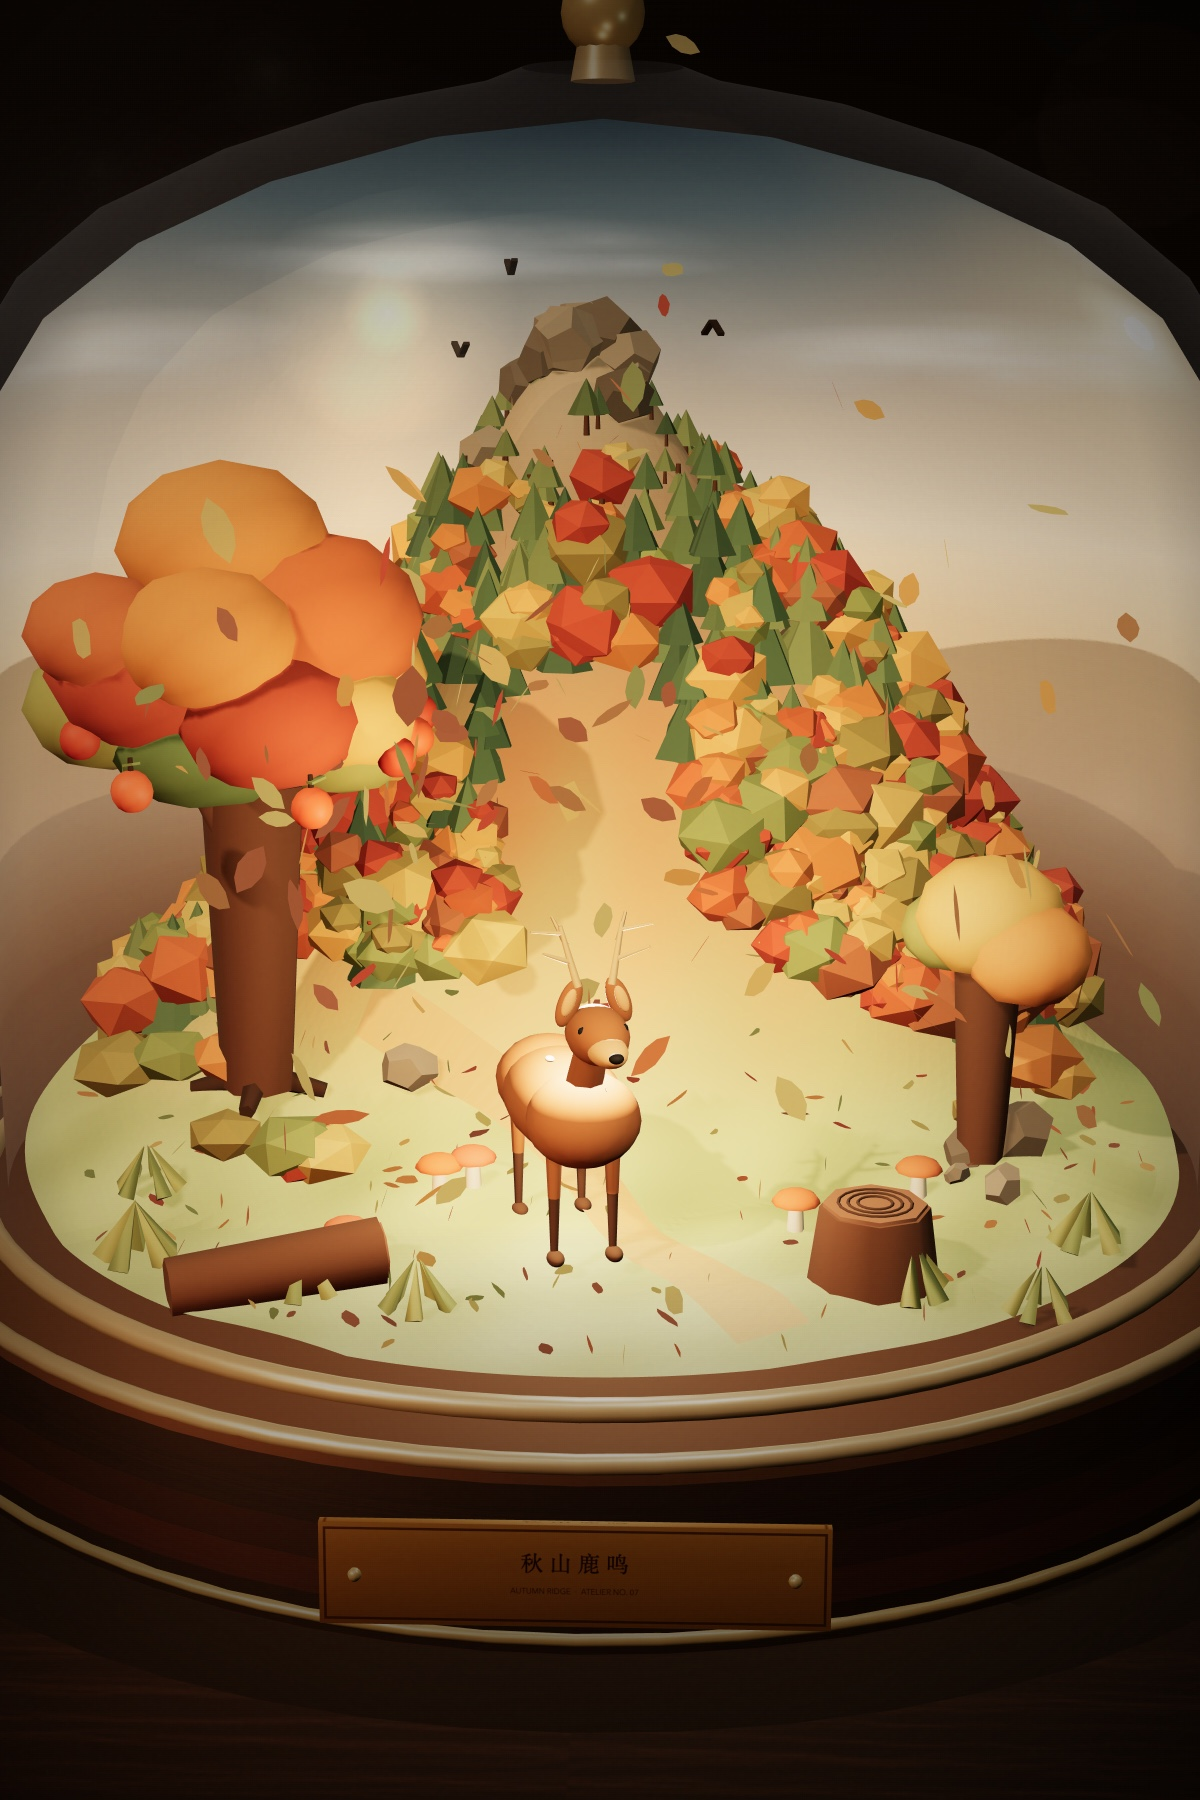
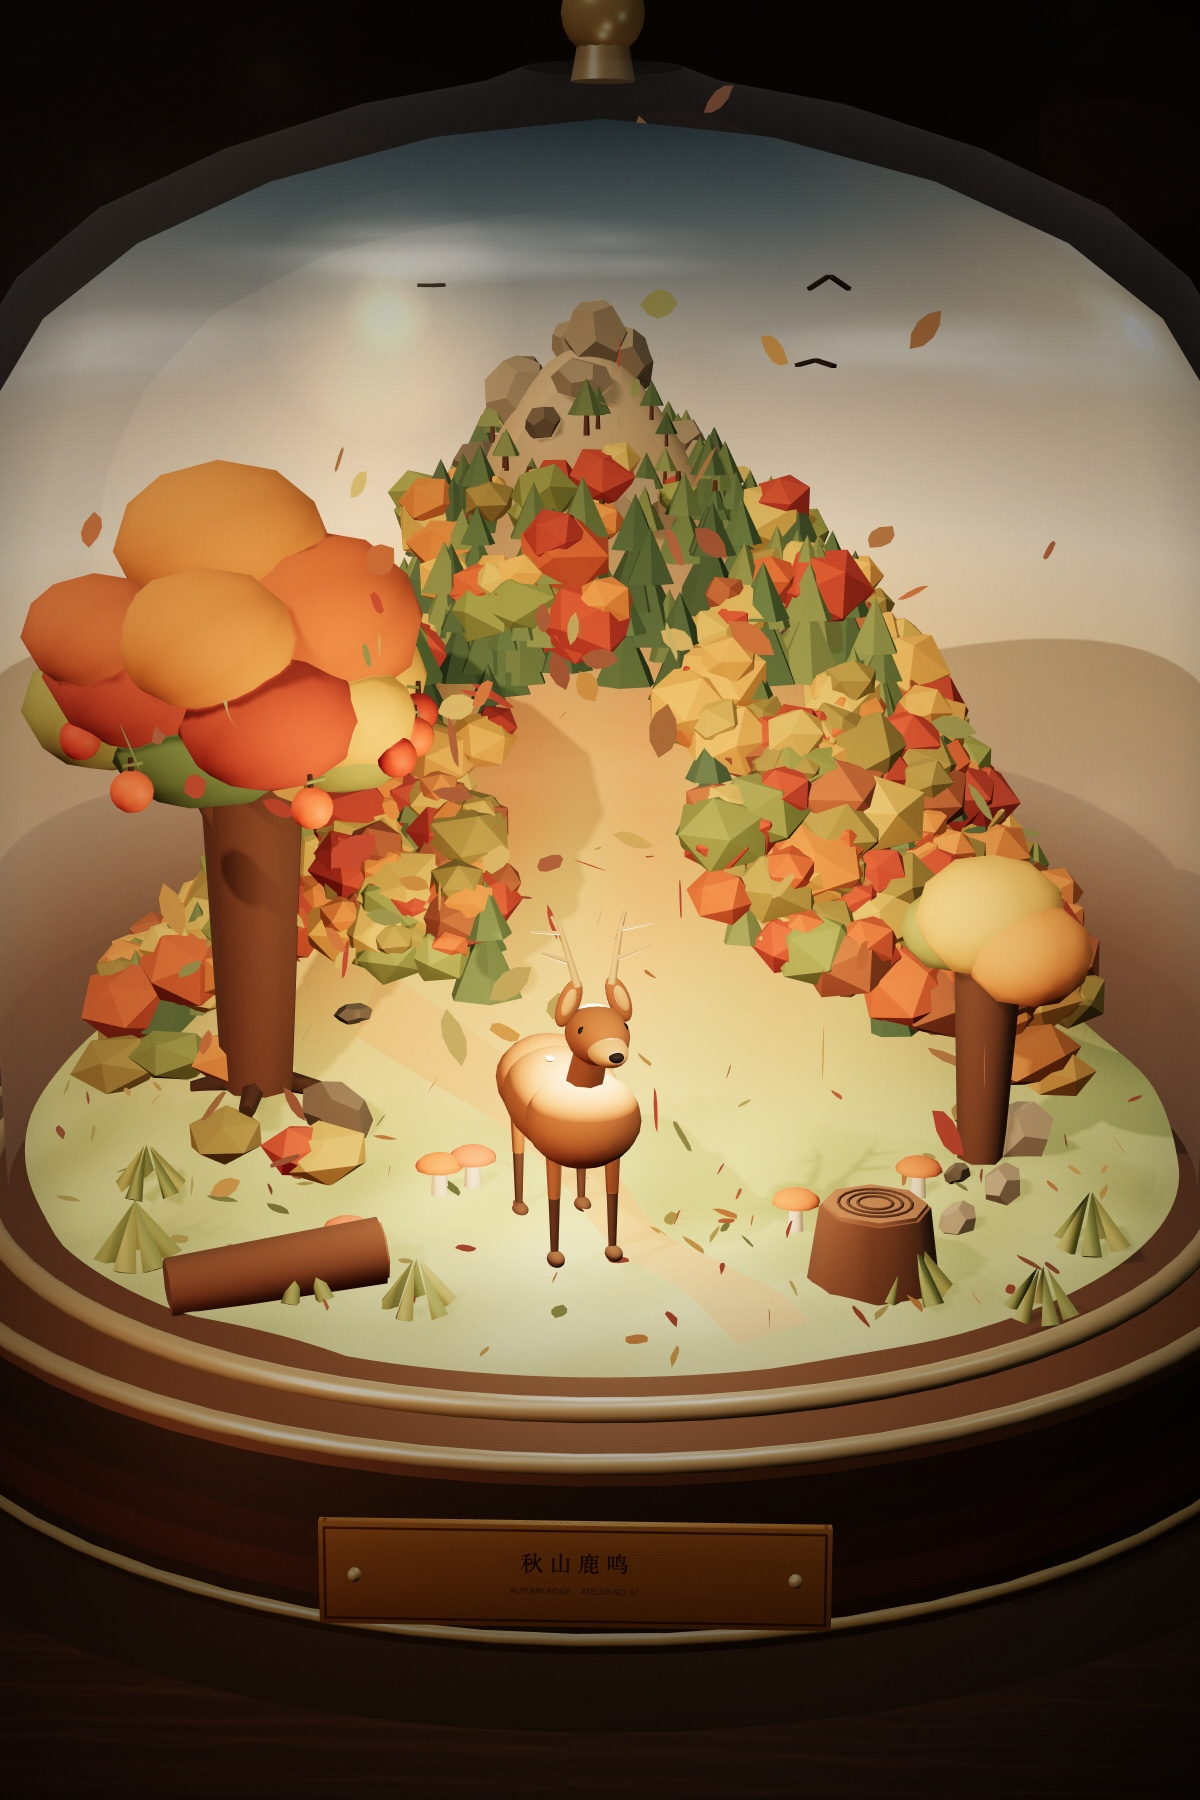
feat: 秋林动物加入觅果互动，重调尾巴并减少落叶
- 狐狸与松鼠尾巴改为收束的双色蓬尾，缩短体量、调整根部朝向，避免比例失衡
- 动物停留时会发现附近的落地果实，走过去低头啃食；果实短暂消失后重新结回树上，访客状态同步显示“觅果/吃果”
- 空中落叶 150→105、地面落叶 310→217，整体减少约 30%
- 更新互动提示与海报

diff --git a/autumn-forest/index.html b/autumn-forest/index.html
@@ -216,7 +216,7 @@
 </aside>
 
 <div class="side-mark">NO. 07 / AUTUMN RIDGE / 2026</div>
-<p class="hint-note" id="hintNote">风一过，整座山的叶子都在轻轻响。</p>
+<p class="hint-note" id="hintNote">风过叶响，落下的果子，来客会来尝。</p>
 
 <div class="hintbar">
   <span><b>拖拽</b>环绕</span><i></i>
@@ -583,9 +583,74 @@ function cone(parent, radius, height, mat, x = 0, y = 0, z = 0, rx = 0, ry = 0, 
   parent.add(m);
   return m;
 }
-function curveTube(parent, points, radius, mat, segments = 18, radial = 8){
+const SIDE_AXIS = new THREE.Vector3(1, 0, 0);
+function furTail(parent, points, radii, baseColor, tipColor, segments = 26, radial = 11){
   const curve = new THREE.CatmullRomCurve3(points);
-  const m = new THREE.Mesh(new THREE.TubeGeometry(curve, segments, radius, radial, false), mat);
+  const pos = [], cols = [], idx = [];
+  const cA = new THREE.Color(baseColor), cB = new THREE.Color(tipColor), c = new THREE.Color();
+  const tvec = new THREE.Vector3(), n = new THREE.Vector3(), b = new THREE.Vector3();
+  let lastN = null, lastB = null;
+  const pushRing = (p, nn, bb, r, color) => {
+    for (let j = 0; j < radial; j++){
+      const a = j / radial * TAU, ca = Math.cos(a), sa = Math.sin(a);
+      pos.push(
+        p.x + (nn.x * ca + bb.x * sa) * r,
+        p.y + (nn.y * ca + bb.y * sa) * r,
+        p.z + (nn.z * ca + bb.z * sa) * r
+      );
+      cols.push(color.r, color.g, color.b);
+    }
+  };
+  for (let i = 0; i <= segments; i++){
+    const t = i / segments;
+    const p = curve.getPoint(t);
+    curve.getTangent(t, tvec).normalize();
+    n.copy(SIDE_AXIS).addScaledVector(tvec, -tvec.dot(SIDE_AXIS));
+    if (n.lengthSq() < .0001) n.set(0, 0, 1);
+    n.normalize();
+    b.crossVectors(tvec, n).normalize();
+    const f = t * (radii.length - 1);
+    const ri = Math.min(radii.length - 2, Math.floor(f));
+    const r = radii[ri] * (1 - (f - ri)) + radii[ri + 1] * (f - ri);
+    c.copy(cA).lerp(cB, smooth(.62, .84, t));
+    pushRing(p, n, b, r, c);
+    lastN = n.clone();
+    lastB = b.clone();
+  }
+  // rounded, integrated cream tip cap
+  const tipP = curve.getPoint(1);
+  const tipT = curve.getTangent(1).normalize();
+  const tipR = radii[radii.length - 1];
+  const capSteps = 3;
+  for (let k = 1; k <= capSteps; k++){
+    const phi = k / (capSteps + 1) * Math.PI / 2;
+    const p = tipP.clone().addScaledVector(tipT, tipR * Math.sin(phi));
+    pushRing(p, lastN, lastB, tipR * Math.cos(phi), cB);
+  }
+  const tipCenter = pos.length / 3;
+  pos.push(tipP.x + tipT.x * tipR, tipP.y + tipT.y * tipR, tipP.z + tipT.z * tipR);
+  cols.push(cB.r, cB.g, cB.b);
+  const ringCount = segments + 1 + capSteps;
+  for (let i = 0; i < ringCount - 1; i++){
+    for (let j = 0; j < radial; j++){
+      const a = i * radial + j;
+      const b1 = (i + 1) * radial + j;
+      const c1 = i * radial + (j + 1) % radial;
+      const d = (i + 1) * radial + (j + 1) % radial;
+      idx.push(a, b1, c1, b1, d, c1);
+    }
+  }
+  const lastStart = (ringCount - 1) * radial;
+  for (let j = 0; j < radial; j++){
+    idx.push(lastStart + j, tipCenter, lastStart + (j + 1) % radial);
+  }
+  const geo = new THREE.BufferGeometry();
+  geo.setAttribute('position', new THREE.Float32BufferAttribute(pos, 3));
+  geo.setAttribute('color', new THREE.Float32BufferAttribute(cols, 3));
+  geo.setIndex(idx);
+  geo.computeVertexNormals();
+  const mat = new THREE.MeshStandardMaterial({ vertexColors: true, roughness: .9 });
+  const m = new THREE.Mesh(geo, mat);
   m.castShadow = true;
   m.receiveShadow = true;
   parent.add(m);
@@ -1146,7 +1211,7 @@ for (let i = 0; i < fruitHome.length; i++){
   stem.position.y = .075;
   g.add(stem);
   const leaf = block(g, .055, .008, .028, M.fruitLeaf, .018, .085, 0, 0, .5, .2, false);
-  fruits.push({ group: g, home: fruitHome[i].clone(), state: 'hanging', vy: 0, ground: 0, timer: 0, bounces: 0 });
+  fruits.push({ group: g, home: fruitHome[i].clone(), state: 'hanging', vy: 0, ground: 0, timer: 0, bounces: 0, targeted: false });
 }
 
 // tree hit area
@@ -1286,7 +1351,7 @@ const leafGeo = new THREE.ShapeGeometry(leafShape, 4);
 const leafMat = new THREE.MeshBasicMaterial({ color: 0xffffff, side: THREE.DoubleSide, toneMapped: true });
 const groundLeafMat = new THREE.MeshBasicMaterial({ color: 0xffffff, side: THREE.DoubleSide, toneMapped: true });
 
-const groundLeafCount = 310;
+const groundLeafCount = 217;
 const groundLeafMesh = new THREE.InstancedMesh(leafGeo, groundLeafMat, groundLeafCount);
 groundLeafMesh.receiveShadow = true;
 groundLeafMesh.castShadow = false;
@@ -1308,7 +1373,7 @@ for (let i = 0; i < groundLeafCount; i++){
 groundLeafMesh.instanceMatrix.needsUpdate = true;
 if (groundLeafMesh.instanceColor) groundLeafMesh.instanceColor.needsUpdate = true;
 
-const FALLING_LEAVES = 150;
+const FALLING_LEAVES = 105;
 const leafMesh = new THREE.InstancedMesh(leafGeo, leafMat, FALLING_LEAVES);
 leafMesh.frustumCulled = false;
 leafMesh.castShadow = false;
@@ -1405,6 +1470,7 @@ function dropFruit(n = 1){
     f.vz = rand(-.05, .05);
     f.bounces = 0;
     f.timer = 0;
+    f.targeted = false;
     dropped++;
   }
   return dropped;
@@ -1439,9 +1505,27 @@ function updateFruits(dt, time){
         }
       }
     } else if (f.state === 'ground'){
-      f.timer += dt;
+      if (!f.targeted) f.timer += dt;
       if (f.timer > 9){
         f.state = 'fade';
+        f.timer = 0;
+      }
+    } else if (f.state === 'eaten'){
+      f.timer += dt;
+      if (f.timer < .45){
+        f.group.scale.setScalar(Math.max(.001, 1 - f.timer / .45));
+      } else {
+        f.group.visible = false;
+      }
+      if (f.timer > 5.4){
+        f.group.visible = true;
+        jarRig.remove(f.group);
+        f.group.scale.setScalar(.001);
+        f.group.position.copy(f.home);
+        f.group.rotation.set(0, 0, 0);
+        f.targeted = false;
+        heroTree.add(f.group);
+        f.state = 'grow';
         f.timer = 0;
       }
     } else if (f.state === 'fade'){
@@ -1453,6 +1537,7 @@ function updateFruits(dt, time){
         f.group.scale.setScalar(1);
         f.group.position.copy(f.home);
         f.group.rotation.set(0, 0, 0);
+        f.targeted = false;
         heroTree.add(f.group);
         f.state = 'grow';
         f.timer = 0;
@@ -1485,7 +1570,7 @@ function setWindLabel(text){
   if (windStateEl) windStateEl.textContent = text;
   if (hintNoteEl) hintNoteEl.textContent = text === '起风'
     ? '山风起了，整座山都在沙沙响。'
-    : '风一过，整座山的叶子都在轻轻响。';
+    : '风过叶响，落下的果子，来客会来尝。';
 }
 function triggerGust(strength = 1, drop = true){
   wind.gust = Math.max(wind.gust, strength);
@@ -1659,20 +1744,19 @@ function makeFox(){
     orb(head, .012, .013, .012, M.black, side * .042, .022, .058);
   }
   const tail = new THREE.Group();
-  tail.position.set(0, .24, -.2);
+  tail.position.set(0, .22, -.275);
+  tail.scale.setScalar(.95);
   root.add(tail);
   const tailBase = new THREE.Group();
-  tailBase.rotation.y = .5;
+  tailBase.rotation.y = .55;
   tail.add(tailBase);
-  curveTube(tailBase, [
-    new THREE.Vector3(0, .01, 0),
-    new THREE.Vector3(.02, .04, -.11),
-    new THREE.Vector3(.06, .09, -.21),
-    new THREE.Vector3(.09, .15, -.29),
-    new THREE.Vector3(.1, .21, -.33)
-  ], .068, M.fox, 20, 9);
-  orb(tailBase, .06, .06, .07, M.fox, 0, .01, -.02, -.5, 0, 0);
-  orb(tailBase, .04, .04, .055, M.foxLight, .1, .22, -.34, -.1, 0, 0);
+  furTail(tailBase, [
+    new THREE.Vector3(0, 0, 0),
+    new THREE.Vector3(.01, .035, -.085),
+    new THREE.Vector3(.035, .08, -.16),
+    new THREE.Vector3(.06, .11, -.215),
+    new THREE.Vector3(.072, .125, -.265)
+  ], [.036, .072, .095, .085, .05], 0xc46838, 0xefe0c5);
   parts.head = head;
   parts.tail = tail;
   root.castShadow = true;
@@ -1708,20 +1792,20 @@ function makeSquirrel(){
     cone(head, .012, .035, M.squirrelLight, side * .045, .075, .004, 0, 0, side * .14);
   }
   const tail = new THREE.Group();
-  tail.position.set(0, .17, -.07);
+  tail.position.set(0, .15, -.095);
+  tail.scale.setScalar(.88);
   root.add(tail);
   const tailBase = new THREE.Group();
-  tailBase.rotation.y = .42;
+  tailBase.rotation.y = .36;
   tail.add(tailBase);
-  curveTube(tailBase, [
+  furTail(tailBase, [
     new THREE.Vector3(0, 0, 0),
-    new THREE.Vector3(0, .06, -.09),
-    new THREE.Vector3(.015, .14, -.16),
-    new THREE.Vector3(.03, .22, -.2),
-    new THREE.Vector3(.035, .295, -.16)
-  ], .064, M.squirrel, 22, 9);
-  orb(tailBase, .05, .05, .05, M.squirrel, 0, .01, -.02, 0, 0, 0);
-  orb(tailBase, .032, .04, .03, M.squirrelLight, .035, .3, -.155, 0, 0, 0);
+    new THREE.Vector3(.005, .05, -.06),
+    new THREE.Vector3(.02, .11, -.105),
+    new THREE.Vector3(.04, .15, -.105),
+    new THREE.Vector3(.055, .185, -.075),
+    new THREE.Vector3(.055, .21, -.035)
+  ], [.03, .056, .078, .076, .056, .043], 0xa85d34, 0xe1ba8e);
   parts.head = head;
   parts.tail = tail;
   root.castShadow = true;
@@ -1762,6 +1846,22 @@ const spots = [
 let active = null;
 let animalTimer = 0;
 let lastKind = null;
+function clearFruitTarget(a){
+  if (!a || !a.fruitTarget) return;
+  a.fruitTarget.targeted = false;
+  a.fruitTarget = null;
+}
+function groundFruitNear(a){
+  let best = null, bestD = 1.6;
+  for (const f of fruits){
+    if (f.state !== 'ground' || f.targeted) continue;
+    const dx = f.group.position.x - a.root.position.x;
+    const dz = f.group.position.z - a.root.position.z;
+    const d = Math.hypot(dx, dz);
+    if (d < bestD){ bestD = d; best = f; }
+  }
+  return best;
+}
 function setVisitorLabel(text){
   if (visitorStateEl) visitorStateEl.textContent = text;
 }
@@ -1769,9 +1869,14 @@ function placeAnimal(a, x, z){
   a.root.position.set(x, terrainH(x, z) + .005, z);
 }
 function spawnAnimal(kind, initial = false){
-  if (active) active.root.visible = false;
+  if (active){
+    clearFruitTarget(active);
+    active.root.visible = false;
+  }
   const a = animalModels[kind];
   a.root.visible = true;
+  a.fruitTarget = null;
+  a.fruitCooldown = rand(.6, 1.3);
   a.root.scale.setScalar(kind === 'deer' ? 1.16 : 1);
   a.root.rotation.set(0, 0, 0);
   a.reaction = 0;
@@ -1785,6 +1890,7 @@ function spawnAnimal(kind, initial = false){
     a.state = 'stay';
     a.timer = 11;
     a.stayTarget = null;
+    a.fruitCooldown = rand(.8, 1.5);
     a.root.rotation.y = s.ry;
   } else {
     let idx = Math.floor(Math.random() * entryPoints.length);
@@ -1809,17 +1915,38 @@ function updateAnimal(dt, time){
     return;
   }
   const a = active;
+  if (a.state === 'seek' && (!a.fruitTarget || a.fruitTarget.state !== 'ground')){
+    clearFruitTarget(a);
+    a.state = 'stay';
+    a.timer = 1.5;
+    a.fruitCooldown = 1.2;
+    setVisitorLabel(animalNames[a.kind]);
+  }
   const speed = a.speed;
-  if (a.state === 'enter' || a.state === 'leave'){
-    const tx = a.state === 'enter' ? a.target.x : a.exit.x;
-    const tz = a.state === 'enter' ? a.target.z : a.exit.y;
+  if (a.state === 'enter' || a.state === 'leave' || a.state === 'seek'){
+    const tx = a.state === 'enter' ? a.target.x : a.state === 'seek' ? a.fruitTarget.group.position.x : a.exit.x;
+    const tz = a.state === 'enter' ? a.target.z : a.state === 'seek' ? a.fruitTarget.group.position.z : a.exit.y;
     const dx = tx - a.root.position.x, dz = tz - a.root.position.z;
     const dist = Math.hypot(dx, dz);
     if (dist < .04){
       if (a.state === 'enter'){
         a.state = 'stay';
         a.timer = 4.5 + Math.random() * 3.5;
+        a.fruitCooldown = rand(.4, 1.2);
+        setVisitorLabel(animalNames[a.kind]);
+      } else if (a.state === 'seek'){
+        const f = a.fruitTarget;
+        a.state = 'eat';
+        a.timer = 1.8;
+        if (f){
+          f.targeted = false;
+          f.state = 'eaten';
+          f.timer = 0;
+        }
+        a.fruitTarget = null;
+        setVisitorLabel(animalNames[a.kind] + ' · 吃果');
       } else {
+        clearFruitTarget(a);
         a.root.visible = false;
         active = null;
         animalTimer = 2.5 + Math.random() * 3.5;
@@ -1838,19 +1965,45 @@ function updateAnimal(dt, time){
   } else if (a.state === 'stay'){
     a.timer -= dt;
     a.walkPhase += dt * 1.2;
-    if (a.timer <= 0){
+    a.fruitCooldown = Math.max(0, a.fruitCooldown - dt);
+    if (a.fruitCooldown <= 0 && a.timer > 1.0){
+      const f = groundFruitNear(a);
+      if (f){
+        a.fruitTarget = f;
+        f.targeted = true;
+        a.state = 'seek';
+        a.timer = 0;
+        setVisitorLabel(animalNames[a.kind] + ' · 觅果');
+      } else {
+        a.fruitCooldown = .8;
+      }
+    }
+    if (a.state === 'stay' && a.timer <= 0){
       a.state = 'leave';
       a.exit = entryPoints[Math.floor(Math.random() * entryPoints.length)];
+      a.fruitCooldown = 0;
+      setVisitorLabel(animalNames[a.kind]);
+    }
+  } else if (a.state === 'eat'){
+    a.timer -= dt;
+    a.walkPhase += dt * 1.2;
+    if (a.timer <= 0){
+      a.state = 'stay';
+      a.timer = 1.8;
+      a.fruitCooldown = rand(2.5, 4.5);
+      setVisitorLabel(animalNames[a.kind]);
     }
   }
   if (a.reaction > 0) a.reaction = Math.max(0, a.reaction - dt);
-  const walking = a.state === 'enter' || a.state === 'leave';
+  const walking = a.state === 'enter' || a.state === 'leave' || a.state === 'seek';
   const legSwing = walking ? Math.sin(a.walkPhase) * .38 : Math.sin(time * 1.1 + a.walkPhase) * .02;
   for (let i = 0; i < a.legs.length; i++){
     a.legs[i].rotation.x = legSwing * (i % 2 ? -1 : 1);
   }
   const react = a.reaction > 0 ? Math.sin(a.reaction * 8) * .06 : 0;
-  a.head.rotation.x = (walking ? Math.sin(a.walkPhase * 2) * .02 : Math.sin(time * 1.2 + a.walkPhase) * .03) - react * .5;
+  let headPitch = (walking ? Math.sin(a.walkPhase * 2) * .02 : Math.sin(time * 1.2 + a.walkPhase) * .03) - react * .5;
+  if (a.state === 'eat') headPitch = -.28 + Math.sin(time * 8) * .08;
+  a.head.rotation.x = headPitch;
   a.head.rotation.z = react * .12;
   a.tail.rotation.y = Math.sin(time * (walking ? 7 : 2.2) + a.walkPhase) * (a.kind === 'squirrel' ? .22 : .12);
   if (a.kind === 'squirrel'){
@@ -1861,7 +2014,6 @@ function updateAnimal(dt, time){
     a.root.rotation.z = walking ? Math.sin(a.walkPhase) * .025 : 0;
   }
 }
-
 // initial deer in the clearing for the first impression
 spawnAnimal('deer', true);
 
